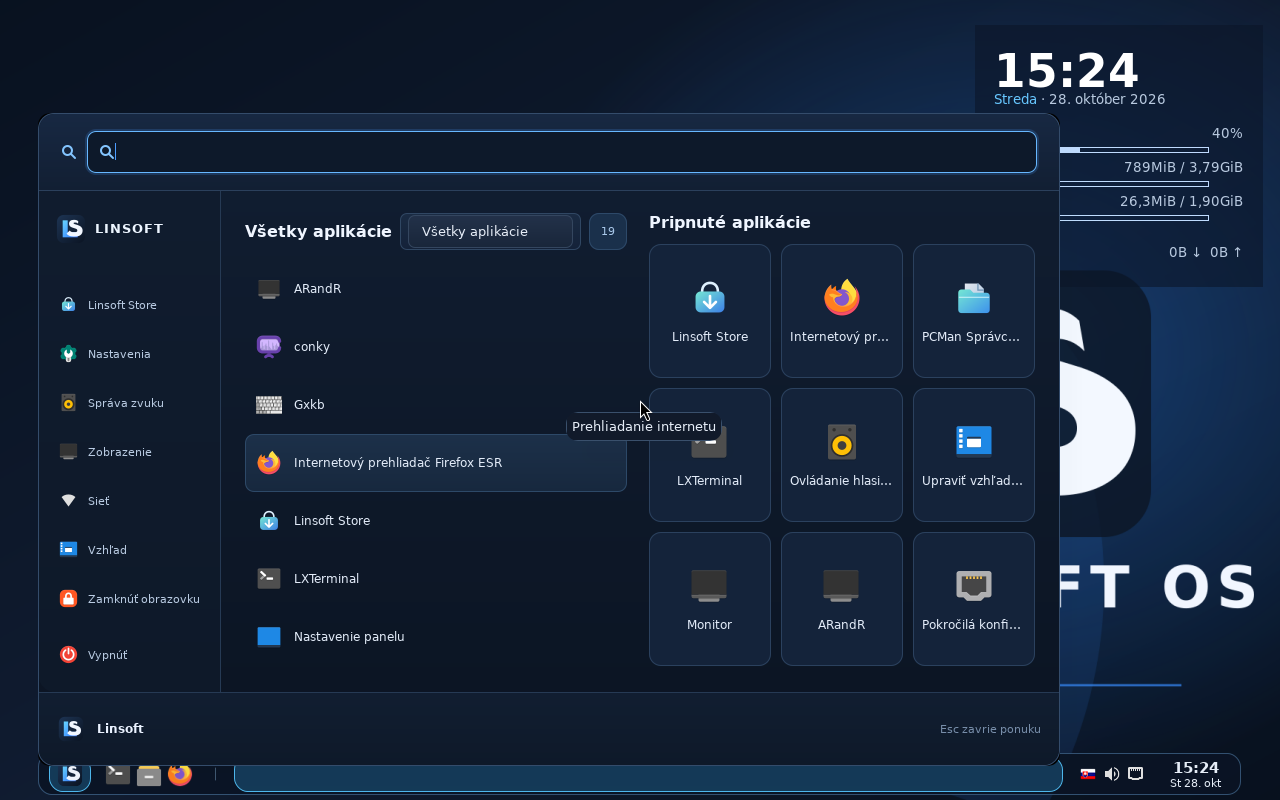
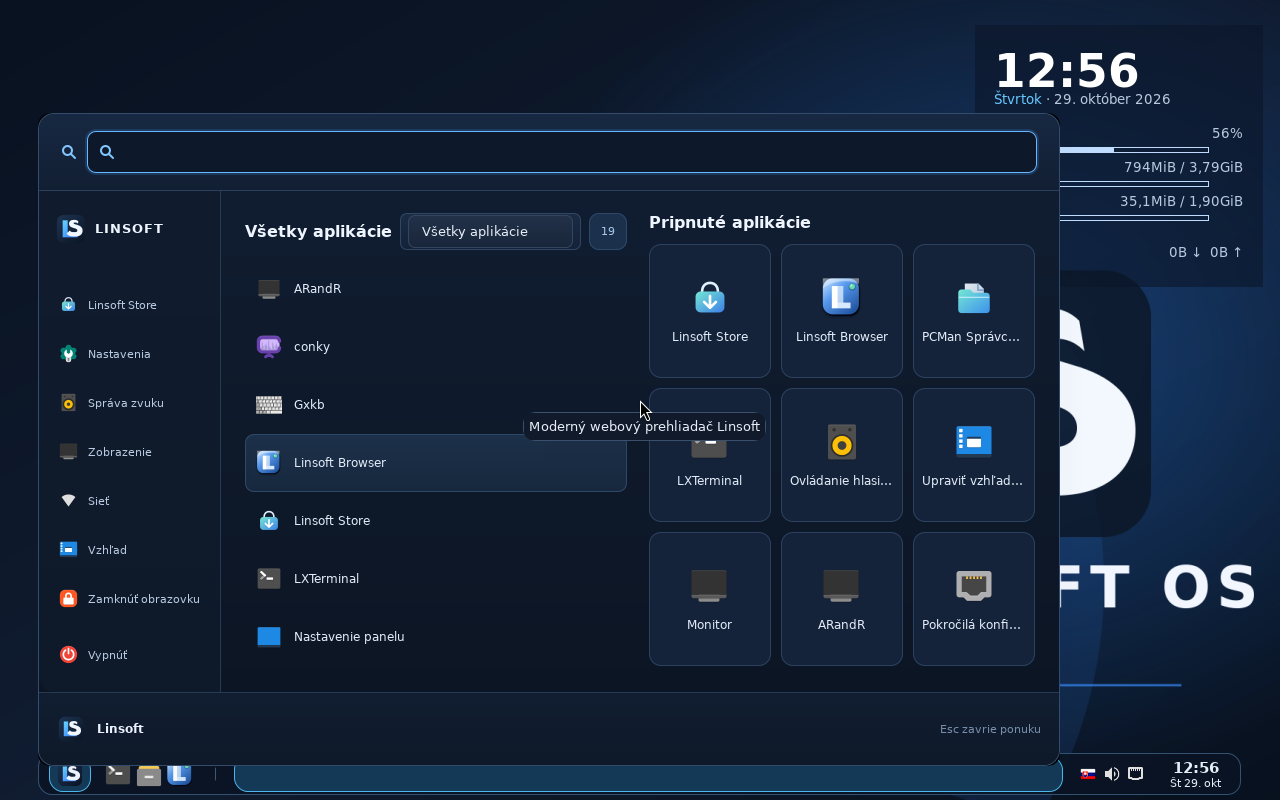
Replace Firefox with integrated Linsoft Browser in live ISO

diff --git a/docs/index.html b/docs/index.html
@@ -55,6 +55,7 @@
     <div><h3>Linsoft Hub</h3><p>Ponuka Štart s vyhľadávaním a kategóriami aplikácií, zarovnaná s panelom. Otvoríte ju cez Super + Medzerník.</p></div>
     <div><h3>Panel a klávesnica</h3><p>Zaoblený panel Tint2 s časom, zvukom a indikátorom rozloženia SK/US. Prepínanie cez Alt + Shift; názvy pracovných plôch sú skryté.</p></div>
     <div><h3>Linsoft Store</h3><p>Katalóg aplikácií z Debianu, inštalácia, odstránenie a aktualizácie cez systémové overenie. Opravené spúšťanie aplikácie aj pomocníka.</p></div>
+    <div><h3>Linsoft Browser</h3><p>Predinštalovaný prehliadač 2.0.32 namiesto Firefoxu. Dostupný v paneli aj ponuke Štart a predvolený pre webové odkazy a HTML súbory.</p></div>
     <div><h3>Logo Linsoft</h3><p>Vlastná tapeta a prihlasovacia obrazovka. Plymouth pri štarte, vypnutí a reštarte zobrazuje logo so zodpovedajúcim textom.</p></div>
     <div><h3>Nastavenia</h3><p>Sieť cez NetworkManager, zvuk, obrazovky, Bluetooth a informácie o PC. Dostupnosť zariadení treba overiť na konkrétnom počítači.</p></div>
   </div>
@@ -69,6 +70,7 @@
     <figure><img src="img/linsoft15-start-menu.png" width="1280" height="800" loading="lazy" alt="Ponuka Štart – Linsoft Hub s pripnutými aplikáciami"><figcaption>Ponuka Štart (Linsoft Hub)</figcaption></figure>
     <figure><img src="img/linsoft15-installer.png?v=3" width="1280" height="800" loading="lazy" alt="Grafický inštalátor Linsoft v tmavej téme – výber jazyka"><figcaption>Inštalátor Linsoft (tmavá téma)</figcaption></figure>
     <figure><img src="img/linsoft15-lockscreen.png" width="1280" height="800" loading="lazy" alt="Odomykacia obrazovka s vlastnou tapetou a logom Linsoft OS 1.5"><figcaption>Zamknutá obrazovka s tapetou Linsoft</figcaption></figure>
+    <figure><img src="img/linsoft15-browser.png" width="1280" height="800" loading="lazy" alt="Linsoft Browser otvorený v Linsoft OS 1.5 s webovou stránkou projektu"><figcaption>Linsoft Browser priamo v systéme</figcaption></figure>
   </div>
 </section>
 <section id="verzia">
@@ -79,9 +81,10 @@
       <tr><th scope="row">Základ systému</th><td>Debian 13 (trixie)</td></tr>
       <tr><th scope="row">Jadro</th><td>Linux 6.12.113 · <code>6.12.113+deb13-amd64</code> (podpísané Debianom)</td></tr>
       <tr><th scope="row">Pracovná plocha</th><td>Openbox · Tint2 · Linsoft Hub</td></tr>
+      <tr><th scope="row">Webový prehliadač</th><td>Linsoft Browser 2.0.32</td></tr>
       <tr><th scope="row">Architektúra</th><td>x86-64 · bootovacie položky BIOS a UEFI</td></tr>
       <tr><th scope="row">Secure Boot</th><td>Podporovaný (Microsoft-podpísaný shim, Debian GRUB a jadro); vypnúť netreba</td></tr>
-      <tr><th scope="row">ISO súbor</th><td>Linsoft-OS-Live.iso · <span data-iso-size>2,10 GB (1,95 GiB)</span></td></tr>
+      <tr><th scope="row">ISO súbor</th><td>Linsoft-OS-Live.iso · <span data-iso-size>2,04 GB (1,90 GiB)</span></td></tr>
     </tbody></table>
   </div>
 </section>
@@ -90,6 +93,7 @@
   <div class="release-note">
     <p class="version">28. 10. 2026 · aktualizovaná Debian live zostava</p>
     <ul>
+      <li><b>Linsoft Browser 2.0.32 namiesto Firefoxu:</b> predvolený pre odkazy a HTML, so spúšťačmi v paneli aj ponuke Štart a opraveným otváraním externých odkazov.</li>
       <li><b>Opravený Linsoft Store:</b> linuxové konce riadkov v spúšťacom skripte aj privilegovanom pomocníkovi.</li>
       <li><b>Vypínacia obrazovka:</b> logo Linsoft a text VYPÍNAM SYSTÉM; pri reštarte REŠTARTUJEM SYSTÉM.</li>
       <li>Kompaktnejší panel, zarovnaná ponuka Štart a skryté názvy pracovných plôch.</li>
@@ -102,10 +106,10 @@
 <section id="stiahnut">
   <h2>Stiahnuť</h2>
   <p><a class="btn" href="https://github.com/Linsoft1/linsoft-os/releases/download/v1.5/Linsoft-OS-Live.iso">⬇ Stiahnuť Linsoft OS 1.5</a></p>
-  <p class="download-meta"><span data-iso-size>2,10 GB (1,95 GiB)</span> · <a href="https://github.com/Linsoft1/linsoft-os/releases/download/v1.5/Linsoft-OS-Live.iso.sha256">Kontrolný súčet SHA-256</a> · <a href="https://github.com/Linsoft1/linsoft-os/releases/tag/v1.5">Podrobnosti vydania</a></p>
+  <p class="download-meta"><span data-iso-size>2,04 GB (1,90 GiB)</span> · <a href="https://github.com/Linsoft1/linsoft-os/releases/download/v1.5/Linsoft-OS-Live.iso.sha256">Kontrolný súčet SHA-256</a> · <a href="https://github.com/Linsoft1/linsoft-os/releases/tag/v1.5">Podrobnosti vydania</a></p>
   <details class="verify">
     <summary>Ako overiť stiahnutý súbor</summary>
-    <p>SHA-256: <code class="hash" id="sha">5d804a26870a78fc8a5fe51ee7677ae416d9364a4b8954fad586a2f732e76db3</code> <button type="button" class="copy" data-copy="sha">Kopírovať</button></p>
+    <p>SHA-256: <code class="hash" id="sha">3b01554f3222a6e5f5c9cbe4c43b8dd28ad931d1b1729f0f70cf445c44c53103</code> <button type="button" class="copy" data-copy="sha">Kopírovať</button></p>
     <p>Windows PowerShell: <code>Get-FileHash .\Linsoft-OS-Live.iso -Algorithm SHA256</code></p>
     <p>Linux: <code>sha256sum Linsoft-OS-Live.iso</code></p>
     <p>Výsledok musí zodpovedať súčtu vyššie alebo v priloženom súbore.</p>

diff --git a/docs/povodny-linsoft-os.html b/docs/povodny-linsoft-os.html
@@ -122,7 +122,7 @@
           <p><b>Pohľad na projekt:</b> Linsoft Browser dáva ekosystému vlastné vstupné miesto na web. Zaujímavé je prepojenie bežného prehliadania s prístupom k službám Linsoft a otvorenosťou kódu, ktorú môžu technicky zvedaví používatelia využiť na štúdium či úpravy podľa licencie. Je to samostatná aplikácia, nie iba webová stránka vyhľadávača.</p>
           <p><b>Súkromie bez prehnaných sľubov:</b> Podľa stránky sa história a záložky ukladajú do lokálneho profilu a automaticky sa nesynchronizujú cez cloudové konto. Vyhľadávacie dopyty však dostáva vybraný poskytovateľ a blokovanie sledovania nie je úplné. Bežné prehliadanie nejde automaticky cez Tor a projekt negarantuje anonymitu.</p>
           <p><a class="btn" href="https://linsoft1.github.io/v2.0.1/">Spoznať Linsoft Browser</a> <a class="btn ghost" href="https://github.com/Linsoft1/v2.0.1">Zdrojový kód</a></p>
-          <p class="small">Originálna snímka prevzatá z oficiálnej stránky projektu 29. 10. 2026. Popis vychádza z jeho dokumentácie; inštalácia a funkcie prehliadača tu neboli prakticky testované. Uvedenie projektu nepotvrdzuje jeho prítomnosť v ISO Linsoft OS 1.5.</p>
+          <p class="small">Originálna snímka prevzatá z oficiálnej stránky projektu 29. 10. 2026. Linsoft Browser 2.0.32 je predinštalovaný v aktualizovanom ISO Linsoft OS 1.5 namiesto Firefoxu. V live systéme so Secure Boot bolo overené spustenie aj otváranie externých HTTPS odkazov pri prvom a opakovanom spustení; pokročilé funkcie OpenVPN a Tor neboli testované.</p>
         </div>
       </article>
       <article class="project-card" aria-labelledby="projekt-search">

diff --git a/linsoft/debian-live/README.md b/linsoft/debian-live/README.md
@@ -4,6 +4,30 @@ Aktuálne vydanie je **Linsoft OS 1.5 (28. 10. 2026)**, Debian 13/Openbox s jadr
 
 Pre publikovanie sa initramfs komprimuje cez XZ (`xz-utils`) a SquashFS používa 1 MiB bloky, aby ISO neprekročilo limit jedného súboru v GitHub Releases. Obsah a aplikácie sa tým neodoberajú.
 
+## Predvolený webový prehliadač
+
+Zostava obsahuje **Linsoft Browser 2.0.32** namiesto predinštalovaného Firefox ESR.
+`build.sh` stiahne oficiálny amd64 balík z vydania projektu
+[Linsoft Browser](https://github.com/Linsoft1/v2.0.1/releases/tag/v2.0.32)
+do `config/packages.chroot` a overí jeho pevne určený SHA-256 súčet.
+Balík nie je súčasťou zdrojového repozitára; pri zmene verzie treba aktualizovať
+URL, názov balíka aj súčet v skripte.
+
+Prehliadač je pripnutý v Tint2 a Linsoft Hub, dostupný v ponuke Openbox
+a predvolený pre HTTP, HTTPS a HTML cez systémové MIME nastavenia, alternatívy
+`x-www-browser`/`gnome-www-browser` a pomocníka XFCE. Spúšťací skript
+`linsoft-browser` zachováva argumenty URL a nevypína sandbox prehliadača.
+Firefox zostáva voliteľnou aplikáciou v katalógu Debian aplikácií Linsoft Store.
+
+Hook `7100-linsoft-browser.hook.chroot` navyše opravuje spracovanie externých
+HTTP/HTTPS odkazov vo verzii 2.0.32 pri prvom aj opakovanom spustení.
+Skript `usr/lib/linsoft/patch-browser.cjs` používa Node runtime samotného
+Electronu, kontroluje očakávaný zdrojový kód a integritu `main.cjs`, mení
+iba tento súbor v ASAR a aktualizuje jeho SHA-256 aj blokové súčty.
+Ostatné položky archívu vrátane externých súborov zostávajú nezmenené.
+Opakované spustenie opravu nezdvojuje; neočakávaná verzia zdroja ukončí
+zostavenie chybou. Nejde o nový balík vydaný projektom prehliadača.
+
 Linsoft 1.1 je vlastná slovenská live distribúcia postavená na Debiane 13 s vlastným zostaveným upstream jadrom Linux 6.12.113. Jadro používa konfiguráciu odvodenú od Debianu, obsahuje moduly pre live boot a hardvér a má vlastnú verziu `6.12.113-linsoft-amd64`. Používa samostatnú reláciu Openbox bez desktopového prostredia XFCE, vlastný panel Tint2 a Linsoft Hub v štýle ponuky Štart. Pri štarte zobrazuje vlastné logo Linsoft a indikátor priebehu načítania cez Plymouth; bootovacie menu, obraz ISO, systémové informácie a inštalátor používajú jednotné označenie Linsoft. Prihlásenie aj zamknutá obrazovka používajú tapetu Linsoft OS a používateľský profil zobrazuje logo Linsoft. Panel je tmavý, priesvitný a zaoblený; zobrazuje tlačidlo Linsoft, pripnuté aplikácie, otvorené okná, systémovú oblasť a hodiny s dátumom. Názvy pracovných plôch sa na paneli nezobrazujú; medzi štyrmi plochami prepínaš skratkami `Super+1` až `Super+4`. V systémovej oblasti je indikátor klávesnice: slovenské rozloženie je predvolené, kliknutím na vlajku prepneš na anglické (US) a späť; prepínať môžeš aj skratkou `Alt+Shift`. Hub otvoríš kliknutím na tlačidlo LINSOFT alebo skratkou `Super+Medzerník`; jeho okraj sa zarovná s okrajom panela a spodná hrana dosadne na panel. Obsahuje vyhľadávanie, kategórie, pripnuté aplikácie a prístup k nastaveniam, vzhľadu a uzamknutiu obrazovky. Jeho tmavé rozhranie zjednocujú modré akcenty, kontrastné stavy tlačidiel, zaoblené karty a upravený panel vyhľadávania. Hub sa umiestni na monitor, na ktorom sa nachádza kurzor, a prispôsobí svoju veľkosť dostupnej pracovnej ploche; pri užšom okne zobrazí aplikácie a pripnuté položky pod sebou. Po opätovnom otvorení obnoví zoznam aplikácií, takže sa zobrazia aj programy nainštalované cez Linsoft Store. Vo výsledkoch vyhľadávania sa môžeš pohybovať šípkami a aplikáciu spustiť klávesom Enter. `Alt+F2` otvorí vyhľadávanie aplikácií a správca nastavení poskytuje spoločné miesto na úpravu zariadení a pracovnej plochy. Upozornenia zabezpečuje XFCE Notify Daemon. Obrazovku zamkneš skratkou `Super+L`. Téma Linsoft-Blue prináša zaoblené rohy, tiene a prechody.
 
 Okná zatvoríš kliknutím na tlačidlo `X` v titulkovom paneli alebo pomocou `Alt+F4`; tlačidlá zatvorenia, maximalizácie aj minimalizácie reagujú na kliknutie. Ďalšie ovládanie: `Alt+Tab` prepína okná, `Alt+Medzerník` otvorí ponuku okna vrátane presunutia a zmeny veľkosti. `Super+Šípka doľava/doprava` zarovná okno na polovicu obrazovky, `Super+Šípka nahor` ho maximalizuje alebo obnoví a `Super+Shift+Šípka nahor` prepína maximalizáciu na výšku. `Super+Šípka nadol` obnoví maximalizované okno a `Super+Shift+Šípka nadol` ho minimalizuje. Rozhranie dopĺňajú tmavá GTK téma, vlastné ikony, tapeta Linsoft Flow a plocha bez ikon. Logo Linsoft sa zobrazuje v bootovacích ponukách a počas štartu cez Plymouth. Locale a predvolené rozloženie klávesnice sú nastavené na slovenčinu; dostupné je aj rozloženie anglické (US). Linsoft Store (`Super+S`) umožňuje inštalovať aplikácie z katalógu `config/includes.chroot/usr/share/linsoft/store/catalog.json`, obnoviť zoznam balíkov a aktualizovať nainštalované systémové balíky.

diff --git a/CHANGELOG.md b/CHANGELOG.md
@@ -5,6 +5,13 @@ All notable changes to Linsoft OS. Versions follow the GitHub releases
 
 ## 1.5 – Debian live / Openbox edition (28 Oct 2026)
 
+* Replaces preinstalled Firefox ESR with official Linsoft Browser 2.0.32:
+  panel and Hub launchers, Openbox menus, HTTP/HTTPS/HTML associations, XFCE
+  helper and system browser alternatives. Build verifies the downloaded
+  Debian package's SHA-256; Electron sandbox remains enabled.
+  Applies a reproducible, integrity-updated main.cjs fix for HTTP/HTTPS
+  arguments on initial launch and when handing URLs to an existing window;
+  other ASAR entries and unpacked resources are preserved.
 * Website: fixes mobile image proportions and narrow-screen gallery overflow;
   adds a collapsible accessible navigation on all three pages, with all links
   still available when JavaScript is disabled.
